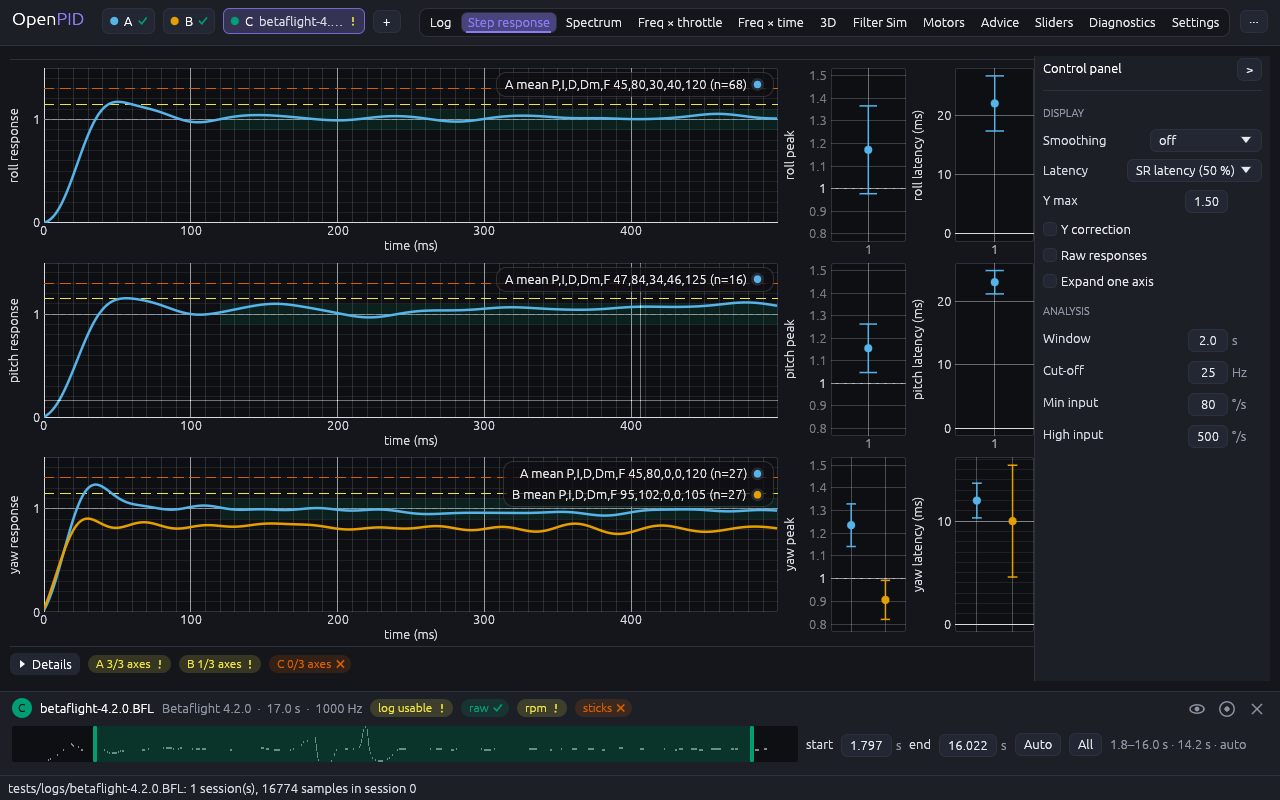
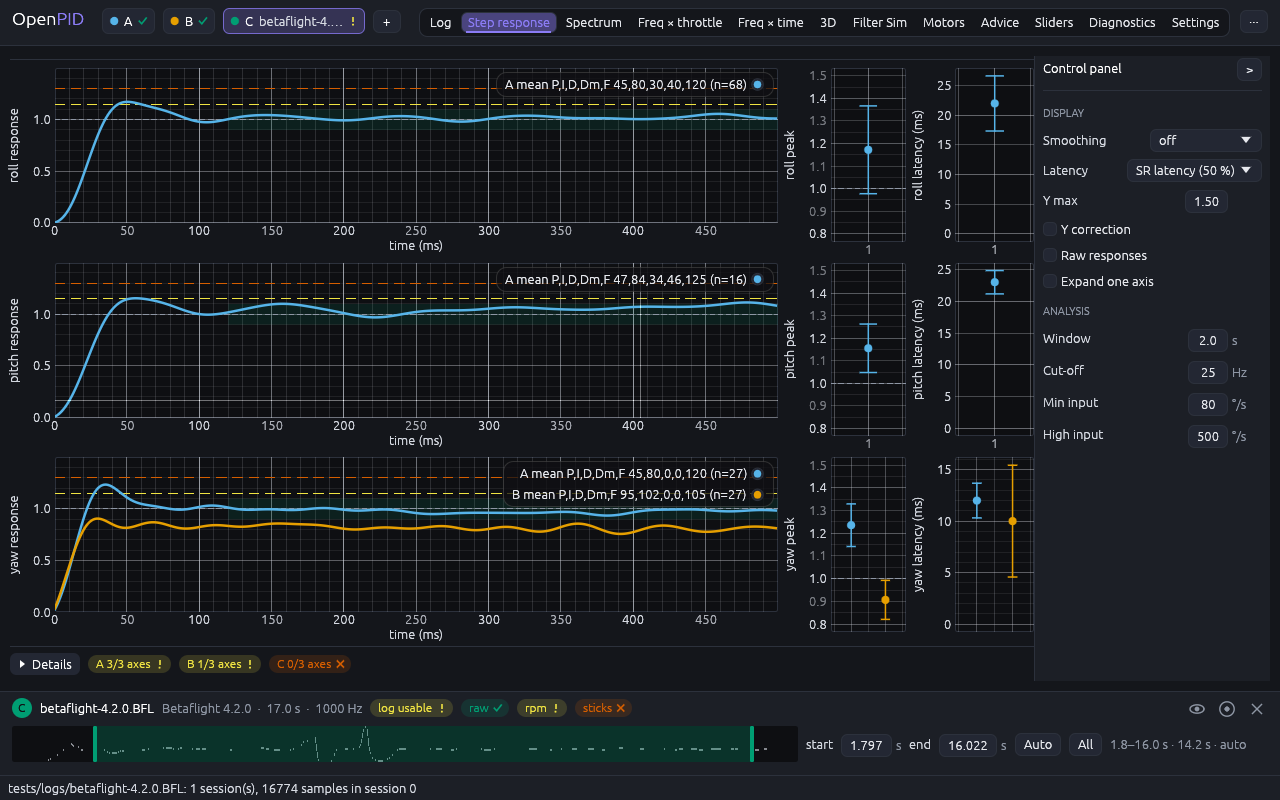
fix(app): plots of a trimmed epoch: no grey margins, readable axes, empty axes explained
On a trimmed epoch the throttle maps showed greyed margin bins at both
edges, narrow axes kept a single label ("0") or rounded 1.5 to "2", the
freq x time map had blank margins around the epoch, and step axes without
a response were empty frames. The throttle range now ends at the edges of
the sampled bins, every reworked plot uses nested 1-2-5 grid steps with a
decimals-aware label (grid.rs), heatmaps fill their frame, and an empty
response plot says why.

Part of #33

Claude-Session: https://claude.ai/code/session_01RZdhNYUUBFBWTKFmkkfBUM

Changed region(s): [[0.0312, 0.0938, 0.5938, 0.3125], [0.0312, 0.3438, 0.5938, 0.5625], [0.0312, 0.5625, 0.5938, 0.8125]]

diff --git a/crates/openpid-app/src/grid.rs b/crates/openpid-app/src/grid.rs
@@ -1,0 +1,112 @@
+//! Plot grid lines and tick labels on the 1–2–5 series, for the plots of the
+//! analysis tabs.
+//!
+//! `egui_plot`'s default spacer steps by powers of ten (1, 10, 100…). On the
+//! stacked, narrower plots of the axis-row layout the labelled step then
+//! falls between 10 and 100 px apart: a 0–55 % throttle axis or a −50…20 dB
+//! power axis was left with the single label "0". Its default label
+//! formatter takes the decimals from `round(-log10(step))`, which prints 1.5
+//! as "2" on a 0.5 step, so the spacers here come with [`label`].
+
+use egui_plot::{GridInput, GridMark};
+use std::ops::RangeInclusive;
+
+/// The next step of the 1–2–5 series at or above `x` (x > 0).
+pub fn nice_at_least(x: f64) -> f64 {
+    let decade = 10f64.powf(x.log10().floor());
+    [1.0, 2.0, 5.0, 10.0]
+        .into_iter()
+        .map(|m| m * decade)
+        .find(|s| *s >= x * (1.0 - 1e-9))
+        .unwrap_or(10.0 * decade)
+}
+
+/// The next finer step that divides `s` evenly: 1 → 0.5, 2 → 1, 5 → 1.
+/// Nested steps keep every mark on one series: 0.5 and 0.2 together would
+/// label 0.4, 0.5 and 0.6 side by side.
+fn finer(s: f64) -> f64 {
+    let decade = 10f64.powf(s.log10().floor());
+    let mantissa = (s / decade).round();
+    if mantissa == 5.0 { s / 5.0 } else { s / 2.0 }
+}
+
+/// Three nested grid steps: the labelled one about `top` times the finest
+/// visible spacing (`base_step_size`, about 8 px) on the 1–2–5 series, and
+/// the two finer ones that divide it.
+fn steps(input: GridInput, top: f64) -> [f64; 3] {
+    let labelled = nice_at_least(input.base_step_size.max(1e-12) * top);
+    let mid = finer(labelled);
+    [finer(mid), mid, labelled]
+}
+
+/// Steps for an x axis: labels need 60–80 px there, so the labelled step is
+/// about ten times the finest spacing.
+pub fn steps_x(input: GridInput) -> [f64; 3] {
+    steps(input, 10.0)
+}
+
+/// Steps for a y axis: labels need 20–30 px.
+pub fn steps_y(input: GridInput) -> [f64; 3] {
+    steps(input, 4.0)
+}
+
+/// The spacer for `x_grid_spacer`.
+pub fn spacer_x() -> impl Fn(GridInput) -> Vec<GridMark> {
+    egui_plot::uniform_grid_spacer(steps_x)
+}
+
+/// The spacer for `y_grid_spacer`.
+pub fn spacer_y() -> impl Fn(GridInput) -> Vec<GridMark> {
+    egui_plot::uniform_grid_spacer(steps_y)
+}
+
+/// A tick label with as many decimals as its step needs (0.5 → one, 20 →
+/// none), for `x_axis_formatter` / `y_axis_formatter`.
+pub fn label(mark: GridMark, _range: &RangeInclusive<f64>) -> String {
+    let decimals = (-mark.step_size.log10() - 1e-9).ceil().max(0.0) as usize;
+    let v = if mark.value.abs() < mark.step_size * 1e-6 {
+        0.0
+    } else {
+        mark.value
+    };
+    format!("{v:.decimals$}")
+}
+
+#[cfg(test)]
+mod unit {
+    use super::*;
+
+    #[test]
+    fn steps_follow_one_two_five() {
+        assert_eq!(nice_at_least(3.0), 5.0);
+        assert_eq!(nice_at_least(5.0), 5.0);
+        assert_eq!(nice_at_least(7.0), 10.0);
+        assert_eq!(nice_at_least(0.03), 0.05);
+        let input = || GridInput {
+            bounds: (0.0, 55.0),
+            base_step_size: 1.3,
+        };
+        assert_eq!(steps_x(input()), [5.0, 10.0, 20.0]);
+        assert_eq!(steps_y(input()), [1.0, 5.0, 10.0]);
+        // every step divides the next: one series of marks
+        for base in [0.013, 0.07, 0.3, 2.2, 17.0] {
+            let [a, b, c] = steps_y(GridInput {
+                bounds: (0.0, 1.0),
+                base_step_size: base,
+            });
+            for (fine, coarse) in [(a, b), (b, c)] {
+                let k = coarse / fine;
+                assert!((k - k.round()).abs() < 1e-9, "{fine} {coarse}");
+            }
+        }
+    }
+
+    #[test]
+    fn labels_keep_the_decimals_of_their_step() {
+        let mark = |value, step_size| GridMark { value, step_size };
+        assert_eq!(label(mark(1.5, 0.5), &(0.0..=2.0)), "1.5");
+        assert_eq!(label(mark(0.25, 0.05), &(0.0..=1.0)), "0.25");
+        assert_eq!(label(mark(40.0, 20.0), &(0.0..=100.0)), "40");
+        assert_eq!(label(mark(-1e-17, 0.2), &(-1.0..=1.0)), "0.0");
+    }
+}

diff --git a/crates/openpid-app/src/axis_layout.rs b/crates/openpid-app/src/axis_layout.rs
@@ -240,6 +240,14 @@ fn step_controls(app: &mut App, ui: &mut Ui) {
     );
 }
 
+/// What a response plot draws: each log's mean, its PID label, and the
+/// reason when no log has a response on the axis.
+type Curves<'a> = (
+    &'a [(Slot, Arc<Output>)],
+    &'a [(Slot, Option<String>)],
+    Option<&'a str>,
+);
+
 /// The result of one axis of one log.
 type AxisResult = (Axis, Slot, Option<Result<Arc<Output>, String>>);
 
@@ -305,10 +313,29 @@ pub fn step(app: &mut App, ui: &mut Ui) {
                 (*s, pid)
             })
             .collect();
+        // an axis without a response says why inside its plot (e.g. an epoch
+        // with no stick movement on it), instead of an empty frame
+        let why: Vec<String> = rows
+            .iter()
+            .filter(|(a, _, _)| *a == axis)
+            .filter_map(|(_, s, r)| match r {
+                Some(Err(e)) => Some(format!("{}: {e}", s.name())),
+                _ => None,
+            })
+            .collect();
+        let note = (outputs.is_empty() && !why.is_empty()).then(|| why.join("\n"));
         ui.horizontal(|ui| {
             let w = (full_w - 2.0 * (SIDE_PLOT_W + ui.spacing().item_spacing.x)).max(200.0);
             response_plot(
-                ui, axis, &outputs, &pids, &display, &targets, band, end_ms, w, h,
+                ui,
+                axis,
+                (&outputs, &pids, note.as_deref()),
+                &display,
+                &targets,
+                band,
+                end_ms,
+                w,
+                h,
             );
             peak_plot(ui, axis, &outputs, &display, w.min(SIDE_PLOT_W), h);
             latency_plot(ui, axis, &outputs, &display, h);
@@ -570,8 +597,7 @@ fn advice_line(app: &mut App, ui: &mut Ui) {
 fn response_plot(
     ui: &mut Ui,
     axis: Axis,
-    outputs: &[(Slot, Arc<Output>)],
-    pids: &[(Slot, Option<String>)],
+    (outputs, pids, note): Curves<'_>,
     display: &StepDisplay,
     targets: &StepTargets,
     band: (f64, f64, f64),
@@ -582,6 +608,10 @@ fn response_plot(
     let warn_line = 1.0 + targets.overshoot_warn_pct / 100.0;
     let fail_line = 1.0 + targets.overshoot_fail_pct / 100.0;
     Plot::new(format!("step-{}", axis.name()))
+        .x_grid_spacer(crate::grid::spacer_x())
+        .x_axis_formatter(crate::grid::label)
+        .y_grid_spacer(crate::grid::spacer_y())
+        .y_axis_formatter(crate::grid::label)
         .legend(Legend::default())
         .x_axis_label(tr("time (ms)"))
         .y_axis_label(format!("{} {}", axis.name(), tr("response")))
@@ -595,6 +625,16 @@ fn response_plot(
         .default_y_bounds(0.0, display.y_max)
         .default_x_bounds(0.0, end_ms)
         .show(ui, |pu| {
+            if let Some(note) = note {
+                pu.text(
+                    egui_plot::Text::new(
+                        "",
+                        egui_plot::PlotPoint::new(end_ms / 2.0, display.y_max / 2.0),
+                        RichText::new(note).size(13.0),
+                    )
+                    .color(crate::colormap::MUTED),
+                );
+            }
             pu.polygon(
                 egui_plot::Polygon::new(
                     // reference marks stay out of the legend (empty names)
@@ -734,6 +774,10 @@ fn peak_plot(
         })
         .collect();
     Plot::new(format!("step-peak-{}", axis.name()))
+        .x_grid_spacer(crate::grid::spacer_x())
+        .x_axis_formatter(crate::grid::label)
+        .y_grid_spacer(crate::grid::spacer_y())
+        .y_axis_formatter(crate::grid::label)
         .width(SIDE_PLOT_W)
         .height(height)
         .y_axis_label(format!("{} {}", axis.name(), tr("peak")))
@@ -776,6 +820,10 @@ fn latency_plot(
         })
         .collect();
     Plot::new(format!("step-latency-{}", axis.name()))
+        .x_grid_spacer(crate::grid::spacer_x())
+        .x_axis_formatter(crate::grid::label)
+        .y_grid_spacer(crate::grid::spacer_y())
+        .y_axis_formatter(crate::grid::label)
         .width(SIDE_PLOT_W)
         .height(height)
         .y_axis_label(format!("{} {}", axis.name(), tr("latency (ms)")))

diff --git a/crates/openpid-app/src/throttle_tab.rs b/crates/openpid-app/src/throttle_tab.rs
@@ -29,26 +29,6 @@ const TITLE_H: f32 = 18.0;
 /// Height of the frequency label under the last row.
 const X_LABEL_H: f32 = 18.0;
 
-/// The next step of the 1–2–5 series at or above `x` (x > 0).
-fn nice_at_least(x: f64) -> f64 {
-    let decade = 10f64.powf(x.log10().floor());
-    [1.0, 2.0, 5.0, 10.0]
-        .into_iter()
-        .map(|m| m * decade)
-        .find(|s| *s >= x * (1.0 - 1e-9))
-        .unwrap_or(10.0 * decade)
-}
-
-/// Grid steps on the 1–2–5 series. `egui_plot`'s default spacer steps by
-/// powers of ten, which on a narrow heatmap leaves a 0–55 % axis with a
-/// single label.
-fn steps_125(input: egui_plot::GridInput) -> [f64; 3] {
-    let s0 = nice_at_least(input.base_step_size.max(1e-9));
-    let s1 = nice_at_least(s0 * 1.5);
-    let s2 = nice_at_least(s1 * 1.5);
-    [s0, s1, s2]
-}
-
 /// Display options of the tab (not analysis parameters).
 #[derive(Debug, Clone, PartialEq)]
 pub struct ThrottleDisplay {
@@ -242,8 +222,9 @@ fn scales(app: &mut App, logs: &mut [LogColumn]) {
 }
 
 /// The throttle range to show: from the first to the last bin with at least
-/// `min_segments` segments in any heatmap, one bin of margin; 0–100 % when
-/// asked for or when nothing is sampled.
+/// `min_segments` segments in any heatmap, to the edges of those bins (a
+/// wider margin would only add greyed, unsampled bins); 0–100 % when asked
+/// for or when nothing is sampled.
 fn throttle_range(logs: &[LogColumn], min_segments: usize, full: bool) -> (f64, f64) {
     if full {
         return (0.0, 100.0);
@@ -261,8 +242,8 @@ fn throttle_range(logs: &[LogColumn], min_segments: usize, full: bool) -> (f64, 
         };
         for (x, c) in t.grid.x.iter().zip(&t.counts) {
             if *c >= min_segments {
-                lo = lo.min(x - dx);
-                hi = hi.max(x + dx);
+                lo = lo.min(x - dx / 2.0);
+                hi = hi.max(x + dx / 2.0);
             }
         }
     }
@@ -367,8 +348,10 @@ fn heat_cell(
         .allow_scroll(false)
         .show_x(false)
         .show_y(false)
-        .x_grid_spacer(egui_plot::uniform_grid_spacer(steps_125))
-        .y_grid_spacer(egui_plot::uniform_grid_spacer(steps_125));
+        .x_grid_spacer(crate::grid::spacer_x())
+        .x_axis_formatter(crate::grid::label)
+        .y_grid_spacer(crate::grid::spacer_y())
+        .y_axis_formatter(crate::grid::label);
     if first {
         plot = plot.y_axis_label(format!("{} (Hz)", axis.name()));
     }
@@ -546,22 +529,4 @@ fn overlay_rows(app: &mut App, ui: &mut Ui) {
         tr("Notches"),
         tr("the static notches, the dynamic-notch band and the RPM filter minimum"),
     );
-}
-
-#[cfg(test)]
-mod unit {
-    use super::*;
-
-    #[test]
-    fn grid_steps_follow_one_two_five() {
-        assert_eq!(nice_at_least(3.0), 5.0);
-        assert_eq!(nice_at_least(5.0), 5.0);
-        assert_eq!(nice_at_least(7.0), 10.0);
-        assert_eq!(nice_at_least(0.03), 0.05);
-        let s = steps_125(egui_plot::GridInput {
-            bounds: (0.0, 55.0),
-            base_step_size: 1.3,
-        });
-        assert_eq!(s, [2.0, 5.0, 10.0]);
-    }
 }

diff --git a/crates/openpid-app/src/views.rs b/crates/openpid-app/src/views.rs
@@ -2092,6 +2092,13 @@ pub fn time_heatmap(app: &mut App, ui: &mut Ui) {
                             let mut hover = None;
                             ui.horizontal(|ui| {
                                 Plot::new(("stft", slot.name()))
+                                    // the map fills the frame: no blank
+                                    // margin around the epoch
+                                    .set_margin_fraction(egui::Vec2::ZERO)
+                                    .x_grid_spacer(crate::grid::spacer_x())
+                                    .x_axis_formatter(crate::grid::label)
+                                    .y_grid_spacer(crate::grid::spacer_y())
+                                    .y_axis_formatter(crate::grid::label)
                                     .x_axis_label("time (s)")
                                     .y_axis_label("frequency (Hz)")
                                     .width(plot_w)

diff --git a/crates/openpid-app/src/spectrum_tab.rs b/crates/openpid-app/src/spectrum_tab.rs
@@ -555,11 +555,16 @@ fn cell_plot<'p>(c: &ColumnPlot<'_>, fa: FreqAxis) -> Plot<'p> {
             tr("frequency (Hz)")
         });
     }
-    if fa.log {
-        plot = plot
-            .x_grid_spacer(log_grid)
-            .x_axis_formatter(|m, _| format!("{:.0}", 10f64.powf(m.value)));
-    }
+    plot = plot
+        .y_grid_spacer(crate::grid::spacer_y())
+        .y_axis_formatter(crate::grid::label);
+    plot = if fa.log {
+        plot.x_grid_spacer(log_grid)
+            .x_axis_formatter(|m, _| format!("{:.0}", 10f64.powf(m.value)))
+    } else {
+        plot.x_grid_spacer(crate::grid::spacer_x())
+            .x_axis_formatter(crate::grid::label)
+    };
     plot
 }
 

diff --git a/crates/openpid-app/src/main.rs b/crates/openpid-app/src/main.rs
@@ -7,6 +7,7 @@ mod app;
 mod axis_layout;
 mod colormap;
 mod export;
+mod grid;
 mod i18n;
 mod panel;
 mod prefs;

diff --git a/docs/design/throttle-tab/README.md b/docs/design/throttle-tab/README.md
@@ -54,11 +54,13 @@ on this log, so the decision adds a throttle range that follows the data.
   the largest across logs; a fixed "Colour max" wins. `App::colour_scales`
   records one value per log.
 - **Throttle range**: from the first to the last bin with at least
-  "Min segments" segments in any visible map, one bin of margin, applied when
-  it changes and on a double click; "Full throttle range" shows 0–100 %. All
-  cells link x and y.
-- **Grid labels on the 1–2–5 series** (`steps_125`): egui_plot's default spacer
-  steps by powers of ten and left a 0–55 % axis with the single label "0".
+  "Min segments" segments in any visible map, to the edges of those bins (a
+  margin would only add greyed, unsampled bins at both edges: the owner saw
+  them on a trimmed epoch), applied when it changes and on a double click;
+  "Full throttle range" shows 0–100 %. All cells link x and y.
+- **Grid labels on the 1–2–5 series** (`grid.rs`, shared by every plot of
+  the reworked tabs): egui_plot's default spacer steps by powers of ten and
+  left a 0–55 % axis with the single label "0".
 - Overlays (RPM harmonics per motor, notches), manual spectrum markers and the
   hover read-out as before. The segments-per-bin strip is gone: the dimmed
   bins and the line "A: 76 of 101 throttle bins have fewer than 3 segments

diff --git a/docs/design/README.md b/docs/design/README.md
@@ -58,6 +58,12 @@ Rules shared by every topic of the sprint:
     column of `panel::UNIT_W`): a `DragValue` suffix disappears while the
     value is typed, the unit beside it stays; this holds for every number
     field of the app, panels or not;
+- **Plot grids** (owner's remark of 2026-11-09 on a trimmed epoch): every plot
+  of the reworked tabs steps its grid on the 1–2–5 series with nested steps
+  and labels with the decimals its step needs (`grid.rs`: `spacer_x`,
+  `spacer_y`, `label`); egui_plot's powers of ten left narrow axes with one
+  label and printed 1.5 as "2". Heatmaps fill their frame (no margin around
+  the data), and a plot with nothing to draw says why inside it.
   - **every field explains itself on hover**, over the label and over the value:
     what it changes and, where it matters, the default and the trade-off;
   - built only with `crates/openpid-app/src/panel.rs` (`section`, `row`, `drag`,
